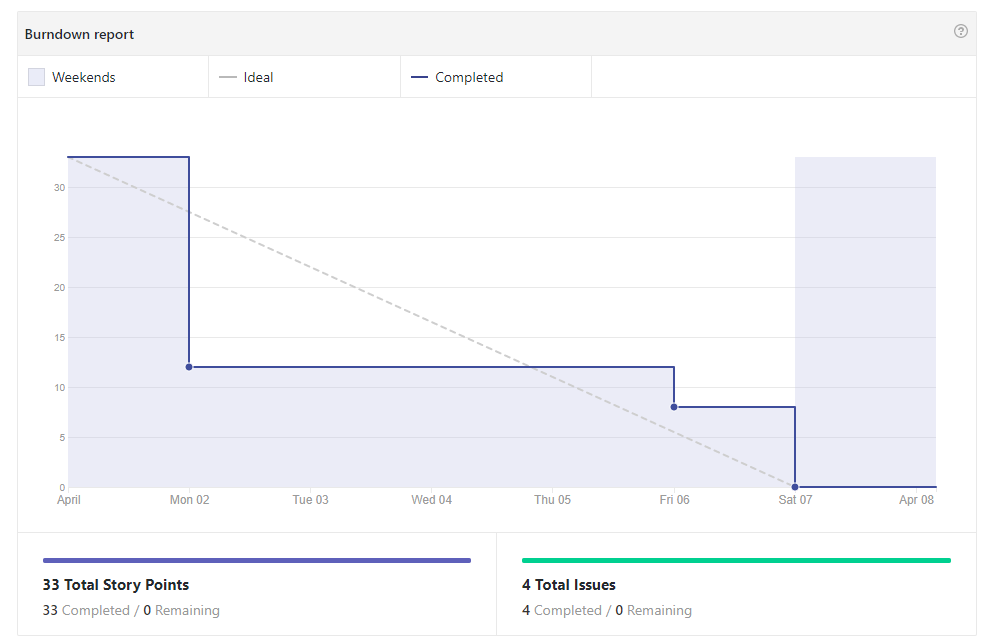
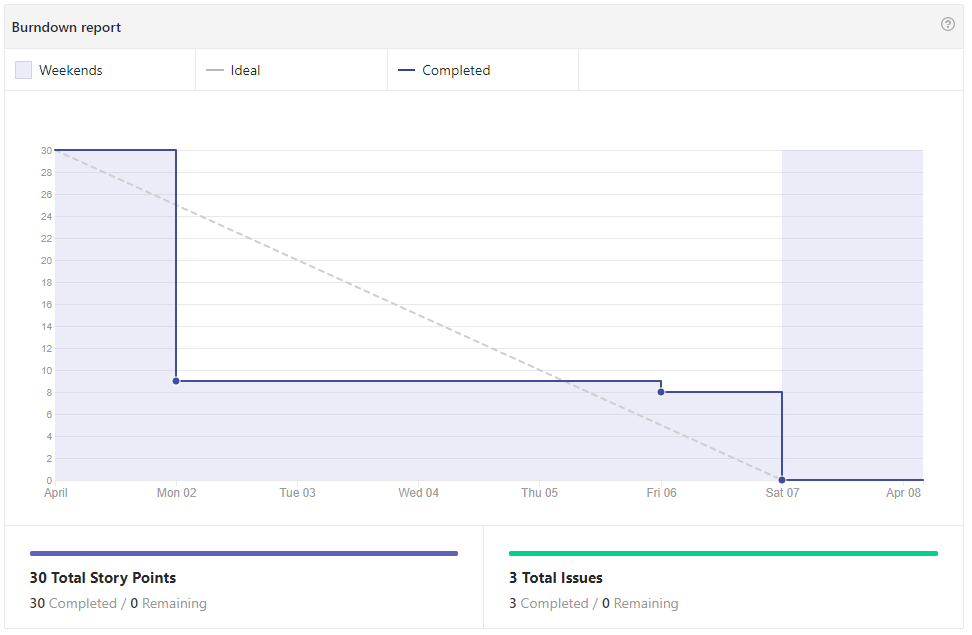
Adicionando resultado da Sprint 04

diff --git a/docs/sprints/Resultado-Sprint-4.md b/docs/sprints/Resultado-Sprint-4.md
@@ -1,0 +1,68 @@
+## 1. Relato da _Sprint_
+
+<p align="justify">&emsp;&emsp; A <i>Sprint</i> 04 teve como objetivo o alinhamento de MDS com o <i>Roadmap</i> que foi traçado por EPS, a <i>feature</i> de conectar um sensor, <i>Kinect</i>, ao nosso sistema e a implementação do banco de dados do projeto.
+
+---
+
+## 2. Fechamento da _Sprint_
+<p align="justify">&emsp;&emsp; A nossa <i>Sprint</i>04 foi fechada no dia, no entanto devido a problemas pessoais do <i>Scrum Master</i> como doença consultas médicas, e um acidente de carro o seu resultado está sendo escrito durante o final <i>Sprint</i> 05, como um ponto positivo a isso podemos perceber que na ausência do SM, este pode ser bem representado pelos outros integrantes do grupo de EPS que demonstraram que a parte do <i>Roadmap do SM</i> que diz respeito a disseminação do conhecimento está sendo concluída com êxito. </p>
+
+### 2.1 Backlog da Sprint
+
+| ID | Issue | Status | Pontos |
+|:--:| ------- | :----: | :----: |
+| 05 | [US05 - Rotular Movimento](https://github.com/fga-gpp-mds/2018.1-Reabilitacao-Motora/issues/88) | Em Aberto | 21 |
+| 13 | [US13 - Gerar Gráficos de Movimentos](https://github.com/fga-gpp-mds/2018.1-Reabilitacao-Motora/issues/46)| Em Aberto | 05 |
+| 17 | [US17 - Conectar um Sensor ao Sistema](https://github.com/fga-gpp-mds/2018.1-Reabilitacao-Motora/issues/28) | Fechada | 21 |
+| TK | [Implementação do Banco de dados](https://github.com/fga-gpp-mds/2018.1-Reabilitacao-Motora/issues/66) | Em Aberto | 05 |
+| TK | [Refactoring na identidade visual.](https://github.com/fga-gpp-mds/2018.1-Reabilitacao-Motora/issues/84) | Fechada | 08 |
+| TK | [Criação do Roadmap do Scrum Master](https://github.com/fga-gpp-mds/2018.1-Reabilitacao-Motora/issues/73) | Fechada | 03 |
+| TK | [Criação do Roadmap de Arquitetura](https://github.com/fga-gpp-mds/2018.1-Reabilitacao-Motora/issues/87) | Fechada | 03 |
+| TK | [Criação do Roadmap de DevOps](https://github.com/fga-gpp-mds/2018.1-Reabilitacao-Motora/issues/64) | Fechada | 03 |
+| TK | [Criação do Documento de Template de Labels](https://github.com/fga-gpp-mds/2018.1-Reabilitacao-Motora/issues/74) | Fechada | 01 |
+
+> O id "TS" é para *tasks* que são consideradas importantes o suficiente para serem pontuadas.
+
+### 2.3 Pontuação Final
+
+* **Pontuação Total:** 53
+* **Pontos Concluídos:** 30
+* **Pontos Não Agregados:** 29
+
+------------
+
+## 3. _Burndown Chart_
+
+![](https://raw.githubusercontent.com/RomeuCarvalhoAntunes/2018.1-Reabilitacao-Motora/master/docs/imagens/Burndown/Sprint_04.png)
+
+> O _Burndown_ se encontra disponível neste [Link](https://github.com/fga-gpp-mds/2018.1-Reabilitacao-Motora/issues#reports?report=burndown&milestoneId=3179762&showPRs=false)
+
+
+------------
+
+## 5. Velocity
+
+> **O _Velocity_ desta equipe**  : 23.94 pontos.
+
+------------
+
+
+## 6. Retrospectiva da _Sprint_
+
+![](https://raw.githubusercontent.com/RomeuCarvalhoAntunes/2018.1-Reabilitacao-Motora/master/docs/imagens/Retrospectiva/Retrospectiva_Sprint04.png)
+
+ >[Link](https://raw.githubusercontent.com/RomeuCarvalhoAntunes/2018.1-Reabilitacao-Motora/master/docs/imagens/Retrospectiva/Retrospectiva_Sprint04.png)
+
+------------
+
+## 7. Quadro de Conhecimento
+
+![](https://raw.githubusercontent.com/RomeuCarvalhoAntunes/2018.1-Reabilitacao-Motora/master/docs/imagens/Quadro%20de%20Conhecimento/Quadro_Conhecimento_04.png)
+
+## 8. Quadro de Presença Daily
+
+![](https://raw.githubusercontent.com/RomeuCarvalhoAntunes/2018.1-Reabilitacao-Motora/master/docs/imagens/Daily/Sprint04.png)
+
+
+## 8. Visão do _Scrum Master_
+<p align="justify">&emsp;&emsp; A <i>Sprint</i> 04 na visão do SM, apesar de ter uma queima de pontos elevadas pode ser considerada um fracasso. Os motivos são: A história que possuía a maior relevância no desenvolvimento da <i>Sprint</i> e também a mais atrasada era a US17 - Conectar um sensor ao sistema, após uma reunião, tardia, com o cliente foi descoberto que esta não era, não foi em nenhum momento prioridade do nosso projeto, erro gravíssimo por parte de EPS que pensou durante todas as <i>Sprints</i> justamente o contrário, outra história de grande importancia que era a implementação do banco de dados não foi concluída, e durante um feedback com a professora Carla Rocha, foi necessário acrescentar um <i>refactoring</i> ao protótipo de alta fidelidade que já estava concluído, Em relação a metodologia ocorreu um erro grave de mudança de objetivo da <i>Sprint</i> onde deveríamos ter sidos conscientes em só realizar o <i>refactoring</i> após terminarmos a implementação do banco de dados. Por conta de uma má gerência do SM atrelado a problemas pessoais que ocorreram o grupo de MDS ficou prejudicado e então a <i>Sprint</i> toda ficou prejudicada, por parte do restante do grupo de EPS os <i>Roadmaps</i> das respectivas áreas foram terminados, e o motivo de estarem presentes neste <i>backlog</i> é apenas para mostrar o que foi realizado durante a <i>Sprint</i> por parte do grupo de EPS, os pontos referentes a essas tarefas foram queimados na <i>milestone</i> da <i>Release</i> 01. Está falta de uma gerência adequada durante a <i>Sprint</i> com certeza irá afetar a <i>Sprint</i> 05 que será a próxima a ser desenvolvida onde MDS, provavelmente, terá um maior trabalho para acompanhar o <i>Roadmap</i> proposto. Mesmo não sendo funcionalidade principal o término da US17 será contemplado e utilizado nas <i>Sprints</i> seguintes onde poderemos realizar as outras Histórias de usuário utilizando dados reais e não apenas dados <i>Mocados</i>. 
